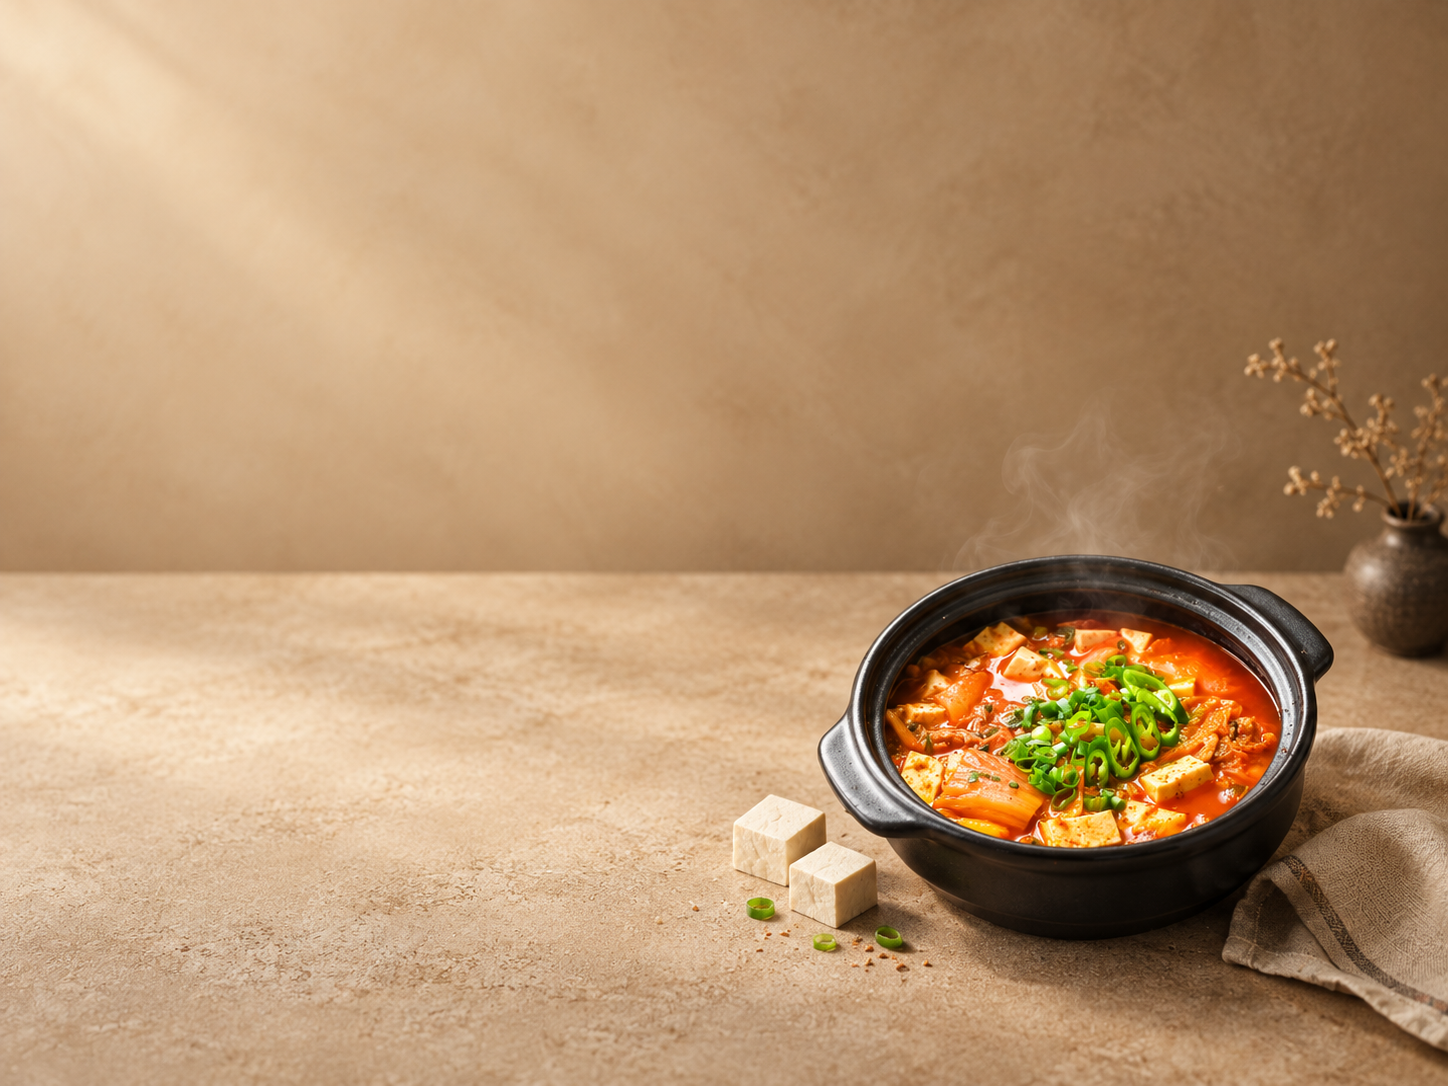
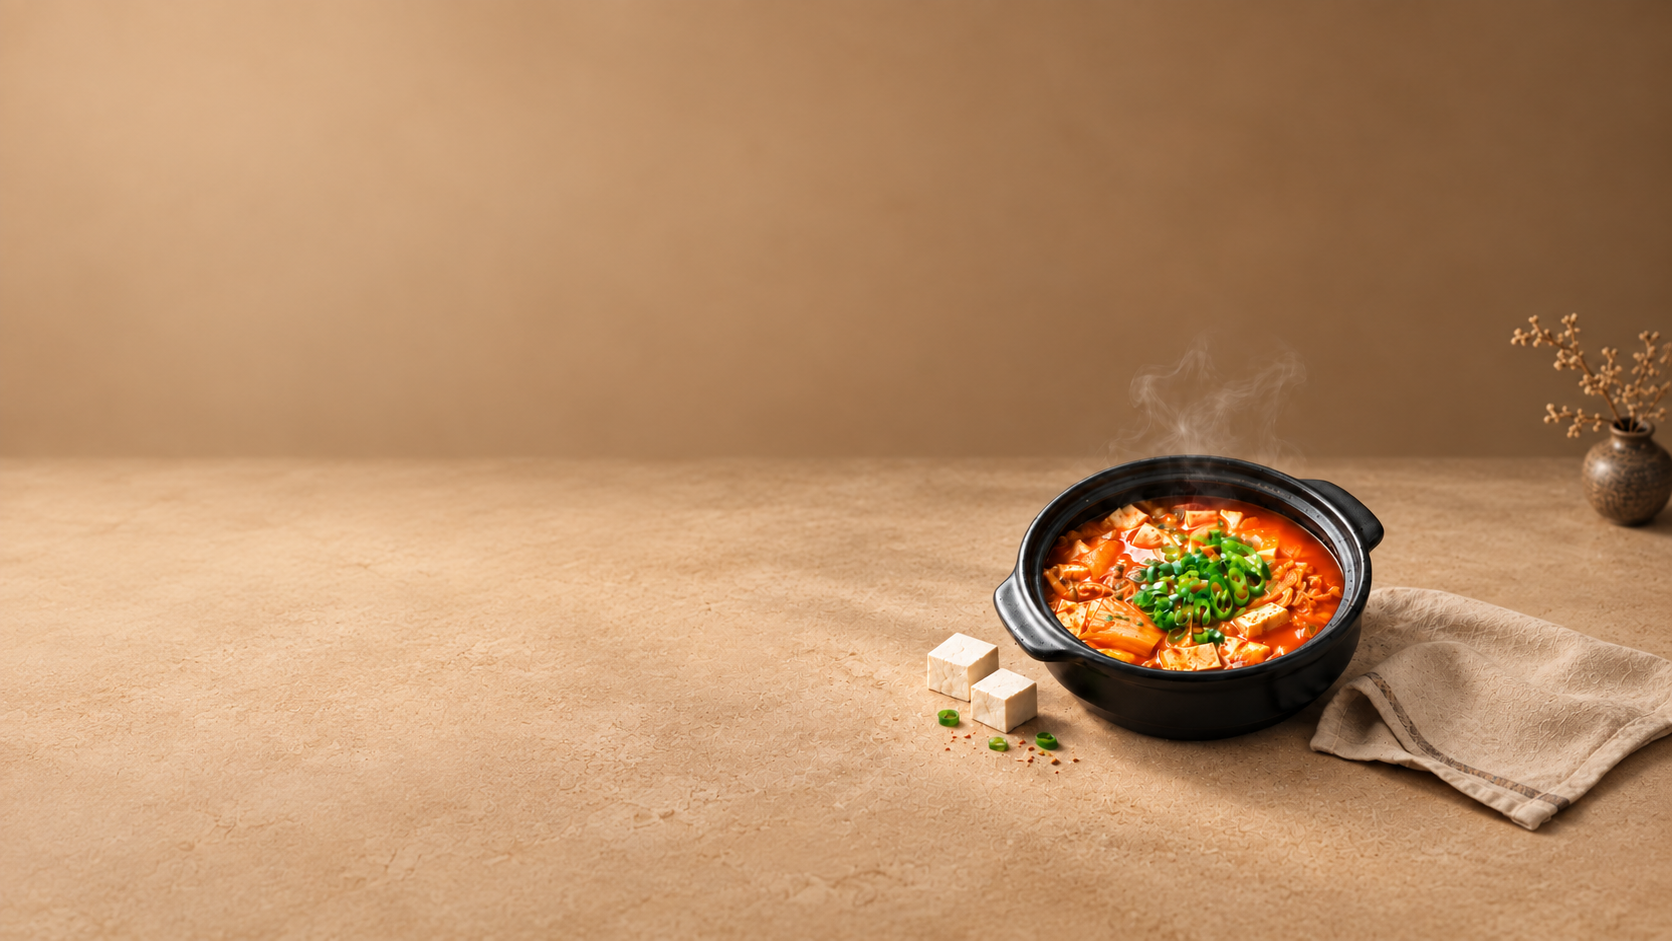
asset: replace tofu hero with wider image, center stew middle-right

diff --git a/landing/tofu-menu.css b/landing/tofu-menu.css
@@ -394,8 +394,8 @@ body {
   width: 100vw;
   height: calc(100vh + 140px);
   background-image: url('assets/tofu-hero-bg.png');
-  background-size: 140% auto;
-  background-position: right -10%;
+  background-size: cover;
+  background-position: center center;
   z-index: -1;
   mask-image: linear-gradient(to bottom, black 60%, transparent 100%);
   -webkit-mask-image: linear-gradient(to bottom, black 60%, transparent 100%);
